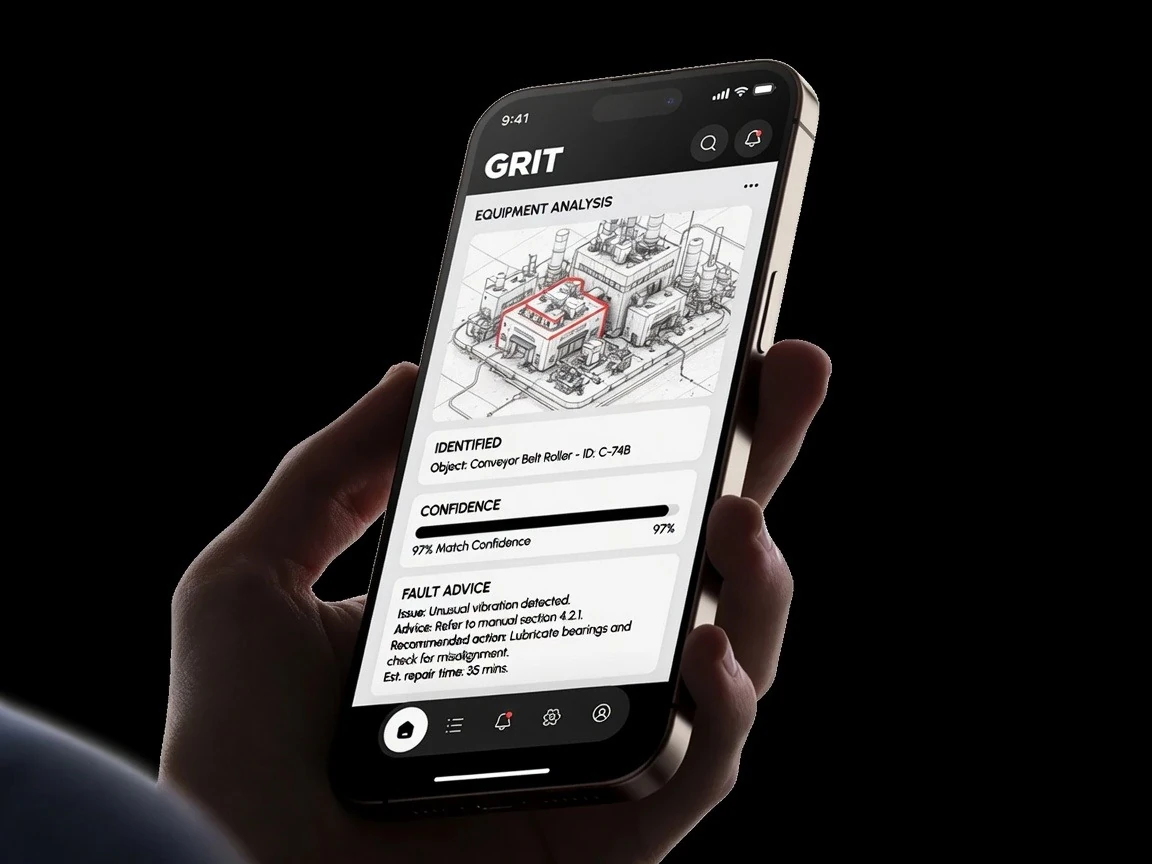
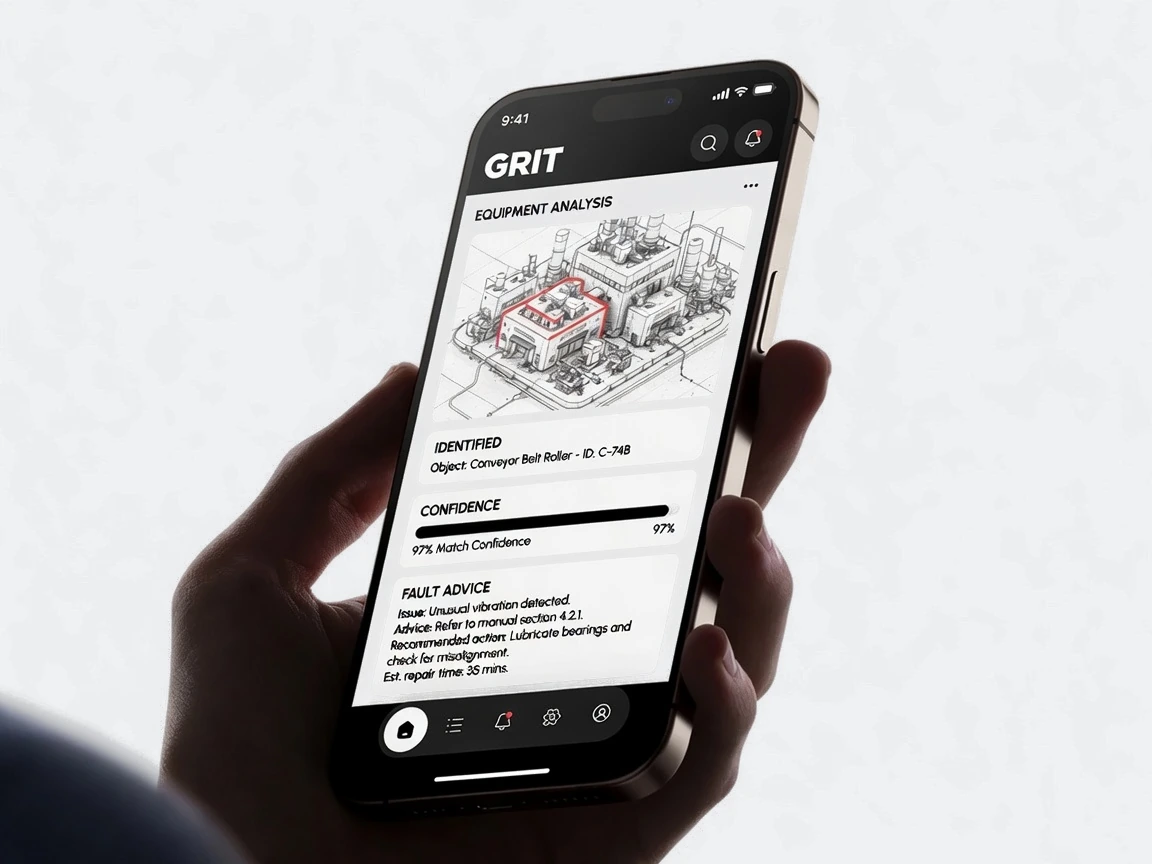
Hone hero phone for light page without cutout artifacts.
Re-stage equipment-ID mockup on page-matched light gray so the hand
and phone no longer use a broken transparent matte on the SaaS hero.

diff --git a/src/components/landing/hero.tsx b/src/components/landing/hero.tsx
@@ -59,13 +59,15 @@ export function Hero() {
         <div className="relative self-center md:col-span-7">
           <Reveal delay={0.12}>
             <div className="relative mx-auto w-full max-w-[34rem] md:max-w-none">
+              {/* Solid light-matched plate: no alpha cutout, natural photo shadow only */}
               {/* eslint-disable-next-line @next/next/no-img-element */}
               <img
                 src="/images/hero-phone.webp"
                 alt="GRIT equipment ID on phone: unit identified with confidence and fault advice"
                 width={1152}
                 height={864}
-                className="relative z-[1] mx-auto h-auto w-full max-w-full drop-shadow-[0_28px_64px_rgba(15,17,21,0.18)] transition-transform duration-700 ease-[cubic-bezier(0.16,1,0.3,1)] hover:scale-[1.02]"
+                className="relative z-[1] mx-auto h-auto w-full max-w-full select-none"
+                draggable={false}
               />
             </div>
           </Reveal>
